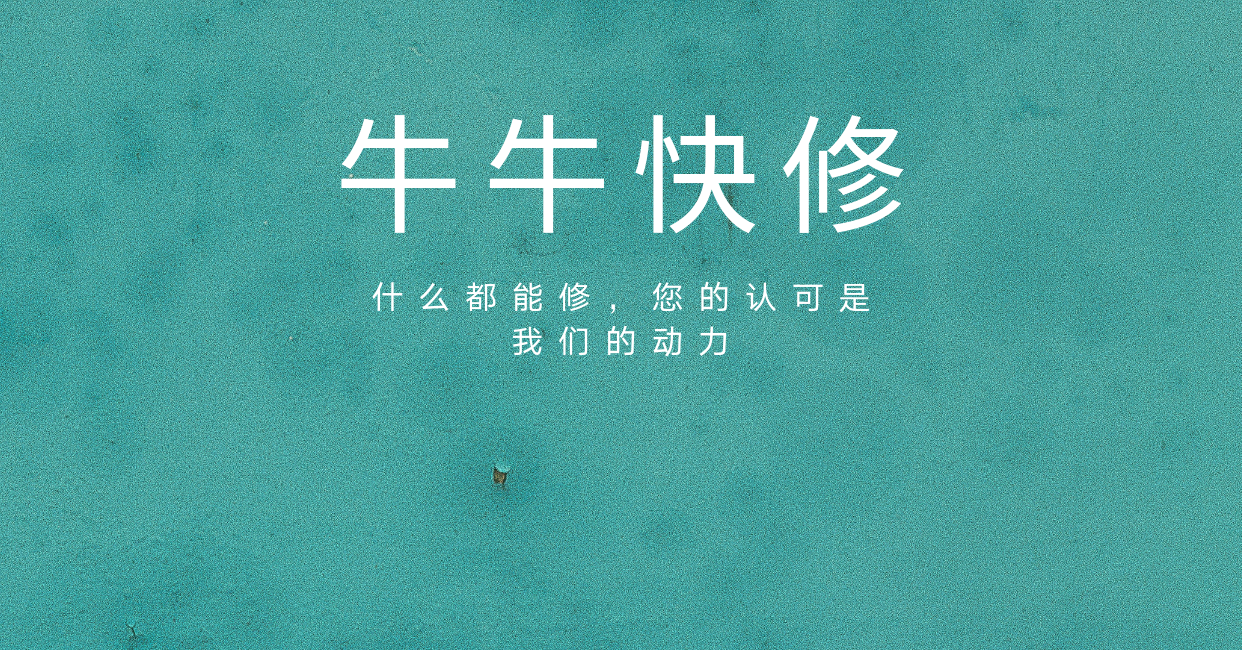
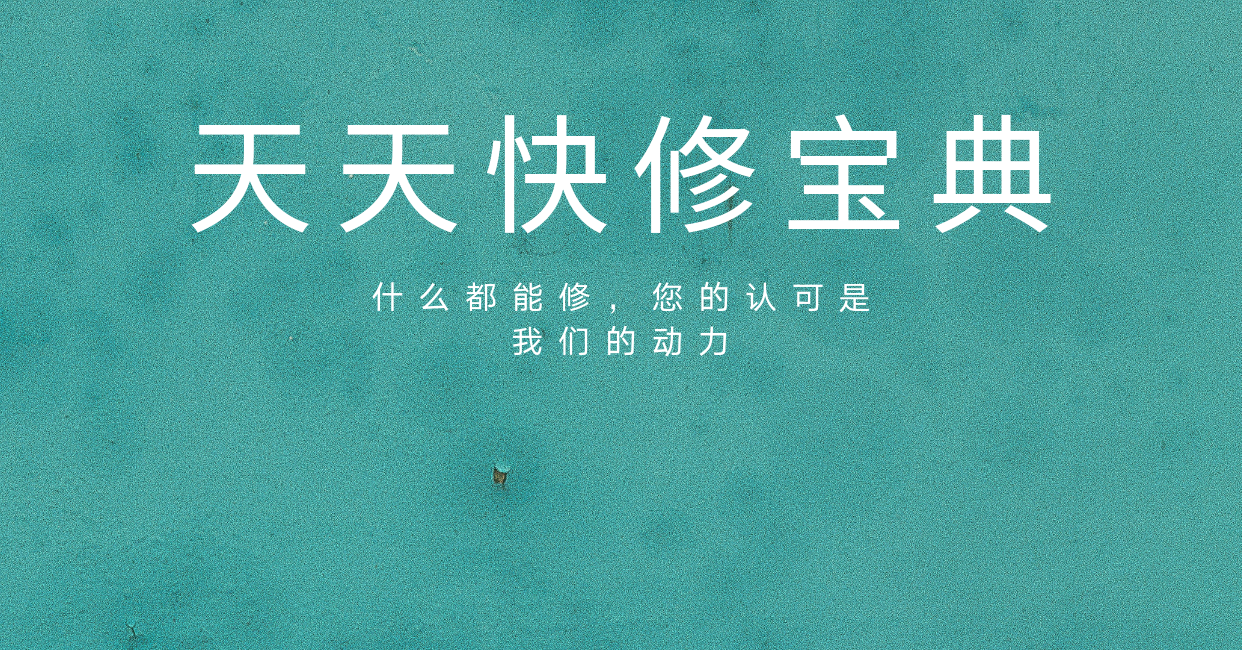
merge

Changed region(s): [[0.2754, 0.1538, 0.8567, 0.3692], [0.153, 0.1846, 0.2448, 0.3692]]

diff --git a/src/config/navigation.js b/src/config/navigation.js
@@ -146,7 +146,7 @@ const AllStack=createStackNavigator({
       screen:ZhiJie,
       navigationOptions:()=>({
         //  title:'Fast Repair',
-        title:Platform.OS=='ios'?'Fast Repair':'牛牛快修',
+        title:Platform.OS=='ios'?'Fast Repair':'天天快修宝典',
          headerTintColor:'white',
          headerStyle: {
           backgroundColor:sty.themeColor,
@@ -157,7 +157,7 @@ const AllStack=createStackNavigator({
       screen:JiaDian,
       navigationOptions:()=>({
         //  title:'Fast Repair',
-        title:Platform.OS=='ios'?'Fast Repair':'牛牛快修',
+        title:Platform.OS=='ios'?'Fast Repair':'天天快修宝典',
          headerTintColor:'white',
          headerStyle: {
           backgroundColor:sty.themeColor,

diff --git a/src/component/home/Home.js b/src/component/home/Home.js
@@ -178,7 +178,7 @@ _onRefresh=()=>{
               Platform.OS=='ios'?
               "Fast Repair"
               :
-              "牛牛快修"
+              "天天快修宝典"
             }
             
             </Text>

diff --git a/android/app/src/main/java/com/tiantian/zl01/MainActivity.java b/android/app/src/main/java/com/tiantian/zl01/MainActivity.java
@@ -1,4 +1,4 @@
-package com.bjssx.zl01;
+package com.tiantian.zl01;
 
 import com.facebook.react.ReactActivity;
 import android.os.Bundle;//here

diff --git a/android/app/src/main/java/com/tiantian/zl01/MainApplication.java b/android/app/src/main/java/com/tiantian/zl01/MainApplication.java
@@ -1,4 +1,4 @@
-package com.bjssx.zl01;
+package com.tiantian.zl01;
 
 import android.app.Application;
 
